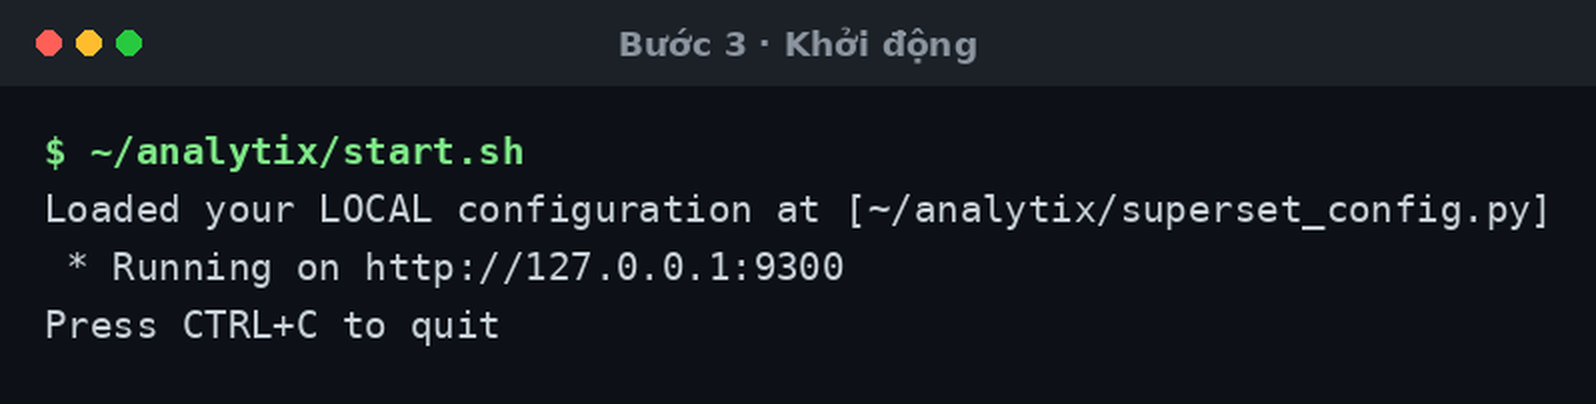
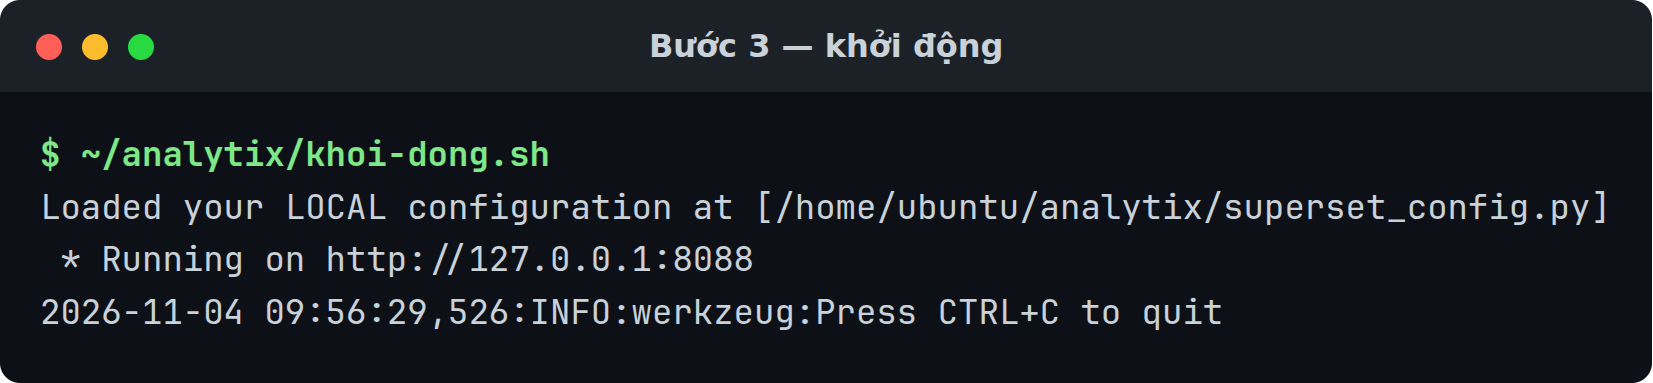
A bundle that carries Python, so the target machine needs nothing
dong-goi.sh --day-du now packs a standalone CPython 3.12.16 and all 158
pinned wheels alongside the usual files. A machine with no Python, no
python3-venv, no network and no Docker can unpack it and run ./cai.sh.
274 MB, against 105 MB for the bundle that resolves from PyPI.

The install page drops its prerequisites list — that list was the thing
the full bundle exists to delete.

Both fixes came from running it, not reading it. Installing with a proxy
pointed at a dead port failed on a missing `wheel`: superset-core builds
from source and its pyproject asks for setuptools and wheel, and only
setuptools was in the pinned set. And a venv records the interpreter that
made it, so building one straight from the bundle left the install dead
once the bundle was deleted; cai-tren-may.sh now copies Python into
ANALYTIX_HOME first, and go-cai.sh removes it.

Five screenshots on the install page are regenerated from the real output
of those runs; three of them still showed install.sh and an 8-item bundle.

diff --git a/docs/how-to/cai-dat-tren-may.md b/docs/how-to/cai-dat-tren-may.md
@@ -10,19 +10,38 @@ last_update:
 
 Cài AnalytiX vào một môi trường ảo Python trên chính máy đó, không qua Docker.
 
-Dành cho người quản trị. Cần có trước:
+Dành cho người quản trị. Thứ duy nhất bạn cần chuẩn bị là **bản đóng gói đã
+giải nén** — không phải cài sẵn gì trên máy.
 
-- **Python 3.10, 3.11 hoặc 3.12** — bộ cài từ chối mọi bản khác
-- Khả năng tạo venv (`python3-venv` trên Debian/Ubuntu)
-- **Mạng ra được PyPI** — bản đóng gói mang theo *danh sách* 156 gói đã ghim, không mang theo chính các gói đó
-- Bản đóng gói `analytix-<bản>` đã giải nén
+Có hai kiểu bản đóng gói, và chúng đòi hỏi khác hẳn nhau:
 
-Không cần `sudo`: mọi thứ nằm trong thư mục của bạn.
+| Bản | Nặng | Máy đích cần gì |
+|:---|:---|:---|
+| **Đầy đủ** `analytix-<bản>-day-du` | ~274 MB | **Không cần gì.** Mang sẵn Python 3.12.16 và cả 158 gói đã ghim |
+| Thường `analytix-<bản>` | ~105 MB | Python 3.10/3.11/3.12, gói `python3-venv`, và mạng ra PyPI |
+
+Bản đầy đủ cài được trên máy **chưa có Python và không có mạng**: giải nén rồi
+chạy, hết. Nó chở theo cây Python của riêng nó nên cũng không đụng tới Python
+của hệ điều hành, và không cần gói `python3-venv` mà Debian/Ubuntu tách riêng.
+
+Không cần `sudo` ở cả hai bản: mọi thứ nằm trong thư mục của bạn.
 
 Chưa có bản đóng gói thì dựng nó trước — [Đóng gói bản phát
-hành](./dong-goi-ban-phat-hanh.md). `bo-cai/dong-goi.sh` để kết quả ở
-`/var/tmp/analytix-ban-phat-hanh/`: thư mục `analytix-<bản>/` và bản nén
-`analytix-<bản>.tar.gz` (khoảng 105 MB) của chính thư mục đó.
+hành](./dong-goi-ban-phat-hanh.md):
+
+```bash
+bo-cai/dong-goi.sh --day-du <đường-dẫn-tới-wheel>   # bản đầy đủ
+bo-cai/dong-goi.sh          <đường-dẫn-tới-wheel>   # bản thường
+```
+
+Kết quả nằm ở `/var/tmp/analytix-ban-phat-hanh/`: một thư mục và một bản nén
+`.tar.gz` của chính thư mục đó.
+
+:::warning[Bản đầy đủ khoá vào một kiến trúc CPU]
+Cây Python đi kèm được dựng cho kiến trúc của máy đóng gói. Đóng gói trên
+`x86_64` thì chỉ cài được lên `x86_64`. Máy đích khác kiến trúc thì phải đóng
+gói lại trên đúng kiến trúc đó.
+:::
 
 :::tip[Chỉ muốn nó chạy thì có đường ngắn hơn]
 `./cai.sh --may` làm đúng mọi bước trang này mô tả, trong một lệnh, rồi khởi
@@ -41,16 +60,17 @@ tar xzf analytix-<bản>.tar.gz
 cd analytix-<bản>
 ```
 
-Mười một mục. Thiếu mục nào thì bộ cài dừng ngay ở bước sau và nói thiếu gì.
+Bản đầy đủ có **mười ba** mục; bản thường có mười một, thiếu `python/` và
+`kho-banh/`. Thiếu mục nào khác thì bộ cài dừng ngay ở bước sau và nói thiếu gì.
 
-```
-apache_superset-6.1.0+foxai.18-py3-none-any.whl   105 MB
-cai.sh  cai-tren-may.sh  go-cai.sh  entrypoint.sh  Dockerfile
-PHIEN-BAN  README.md  workspace_x_theme.py
-requirements/  superset-core/
-```
+![Giải nén tarball rồi ls, thấy mười ba mục của bản đầy đủ: wheel, cai.sh, cai-tren-may.sh, go-cai.sh, Dockerfile, entrypoint.sh, kho-banh, PHIEN-BAN, python, README.md, requirements, superset-core, workspace_x_theme.py.](./img/cai-may/01-giai-nen.png)
 
-![Giải nén tarball rồi ls -lh, thấy tám mục: wheel, Dockerfile, entrypoint.sh, cai-tren-may.sh, README.md, requirements, superset-core, workspace_x_theme.py.](./img/cai-may/01-giai-nen.png)
+Hai mục chỉ bản đầy đủ mới có:
+
+| Mục | Là gì |
+|:---|:---|
+| `python/` | Cây CPython 3.12.16 chạy được ngay, mang sẵn `venv`, `ssl`, `sqlite3` |
+| `kho-banh/` | 158 gói đã ghim, dạng wheel — pip cài từ đây, không đụng PyPI |
 
 ### 2 · Chạy bộ cài
 
@@ -58,14 +78,28 @@ requirements/  superset-core/
 ./cai-tren-may.sh
 ```
 
-Bộ cài tự làm năm việc: kiểm bản đóng gói, dựng venv và cài **đúng thứ tự**,
-viết cấu hình, tạo database và tài khoản quản trị, rồi viết script khởi động.
+Bộ cài tự làm sáu việc: kiểm bản đóng gói, chọn trình thông dịch, dựng venv và
+cài **đúng thứ tự**, viết cấu hình, tạo database và tài khoản quản trị, rồi viết
+script khởi động.
 
-![Output cai-tren-may.sh: bundle OK, python 3.12, dựng venv, cài bộ pin, cachelib khớp pin, config nạp AnalytiX en+vi, tạo admin, và in mật khẩu.](./img/cai-may/02-cai.png)
+![Output cai-tren-may.sh trên bản đầy đủ: chép Python vào thư mục cài, báo python 3.12.16 from the bundle, cài từ kho 158 wheel không dùng PyPI, cachelib khớp pin, config nạp AnalytiX en+vi, tạo admin, và in mật khẩu một lần.](./img/cai-may/02-cai.png)
 
-Ba dòng đáng nhìn: `cachelib ... matches the pin` chứng minh thứ tự cài đúng,
-`config loads: AnalytiX ['en', 'vi']` chứng minh theme nạp được, và dòng mật
-khẩu màu vàng ở cuối.
+Bốn dòng đáng nhìn:
+
+| Dòng | Nó chứng minh gì |
+|:---|:---|
+| `python 3.12.16 from the bundle` | Dùng Python đi kèm, không phải Python của máy |
+| `installing from the bundled wheelhouse (158 wheels); PyPI is not used` | Không một lần ra mạng |
+| `cachelib 0.13.0 matches the pin` | Thứ tự cài đúng — xem *Lỗi hay gặp* nếu dòng này khác |
+| `config loads: AnalytiX ['en', 'vi']` | Theme nạp được |
+
+Dòng đầu tiên, `copying the bundled python into ...`, chép khoảng 113 MB. Nó cố
+ý: venv ghi lại đường dẫn trình thông dịch đã tạo ra nó, nên nếu dựng thẳng từ
+thư mục bộ cài thì xoá thư mục đó đi là bản cài chết. Chép vào trước rồi mới
+dựng venv thì bộ cài là thứ dùng xong vứt được.
+
+Trên **bản thường** hai dòng đầu khác đi: nó báo `python 3.12 from the machine`,
+không có dòng kho wheel, và bước cài bộ pin tải từ PyPI nên lâu hơn nhiều.
 
 ### 3 · Khởi động
 
@@ -73,7 +107,9 @@ khẩu màu vàng ở cuối.
 ~/analytix/khoi-dong.sh
 ```
 
-![Output khoi-dong.sh: nạp cấu hình xong, in dòng Running on kèm địa chỉ.](./img/cai-may/03-khoi-dong.png)
+![Output khoi-dong.sh: nạp cấu hình xong, in dòng Running on kèm địa chỉ http://127.0.0.1:8088.](./img/cai-may/03-khoi-dong.png)
+
+Nó chạy ở tiền cảnh và giữ cửa sổ này. Mở cửa sổ thứ hai để làm tiếp.
 
 ### 4 · Mở địa chỉ nó in ra
 
@@ -191,8 +227,20 @@ sleep 15
 curl -fsS http://127.0.0.1:8088/health          # mong: OK
 ```
 
+![curl tới /health trả về OK.](./img/cai-may/04-kiem-health.png)
+
 Không có `sleep` thì `curl` thường chạy trước khi web server kịp mở cổng, và bạn
 nhận một lỗi kết nối của chính mình chứ không phải lỗi của bản cài.
+
+Với **bản đầy đủ** còn một phép thử đáng giá hơn: xoá hẳn thư mục bộ cài rồi
+chạy lại. Bản cài phải sống tiếp, vì nó đã chép Python vào `$ANALYTIX_HOME`.
+
+```bash
+rm -rf ~/analytix-1.0-day-du
+~/analytix/khoi-dong.sh &
+sleep 15
+curl -fsS http://127.0.0.1:8088/health          # vẫn phải là OK
+```
 
 ## Cài lại lần nữa thì sao
 
@@ -218,13 +266,18 @@ với cùng `ANALYTIX_HOME`.
 Nó in danh sách sắp xoá rồi hỏi `[y/N]`; không có bàn phím mà không có `-y` thì
 nó dừng chứ không xoá.
 
+![Output go-cai.sh: in danh sách sắp xoá gồm venv, python và khoi-dong.sh, mục giữ lại gồm superset.db và superset_config.py, rồi xoá và báo dữ liệu vẫn còn.](./img/cai-may/05-go-cai.png)
+
 | Trong `$ANALYTIX_HOME` | Mặc định | `--ca-du-lieu` |
 |:---|:---|:---|
 | `venv/` | xoá | xoá |
+| `python/` (chỉ bản đầy đủ) | xoá | xoá |
 | `khoi-dong.sh` | xoá | xoá |
 | `superset.db` | **giữ** | xoá |
 | `superset_config.py` | **giữ** | xoá |
 | `workspace_x_theme.py` | **giữ** | xoá |
+
+`python/` nằm ở cột xoá vì nó là phần chương trình, không phải dữ liệu của bạn.
 
 `--ca-du-lieu` xoá cả thư mục `$ANALYTIX_HOME`.
 
